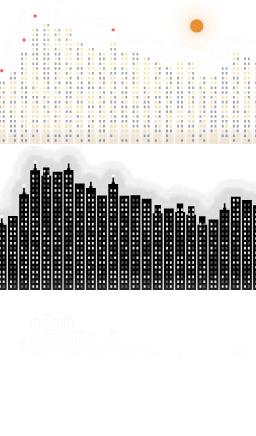
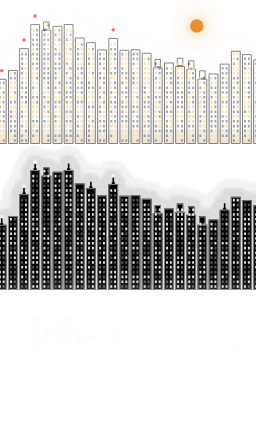
The look picker's stills are drawn again for the removed looks, the Skyline's outlines and the five analysis looks
One run over the combined tree: seven looks gone (4c61c2670), the Skyline's
tower outlines (4665664f0), and the five-look pass (f71aba05d: note and
band names on white, the Analyzer's dashed hold, Before & after's lift and
cut, the Spectrogram's loudness by lightness up to the top), on top of the
switcher's stills, the Smart correction changes and the new patterns that
reached main first. The stills that moved are exactly those looks' own
(Analyzer dark, Before & after, Energy, Notes, Skyline, Spectrogram), plus
Slope's two many-colour stills, which differ on every run (open, being
fixed in its own conversation).

Changed region(s): [[0.0, 0.3876, 1.0, 0.6858], [0.0, 0.0298, 1.0, 0.328]]

diff --git a/src/renderer/graph/lookStills/shippedStillFiles.ts b/src/renderer/graph/lookStills/shippedStillFiles.ts
@@ -175,8 +175,8 @@ const SHIPPED_STILL_FILES: Readonly<Record<string, IShippedStillFile>> = {
     url: analyzerAutoDarkMany,
     roles: [
       'stop-2',
-      'stop-1',
       'stop-3',
+      'stop-1',
       'stop-4',
       'stop-6',
       'stop-5',
@@ -327,32 +327,22 @@ const SHIPPED_STILL_FILES: Readonly<Record<string, IShippedStillFile>> = {
       'stop-6',
       'stop-5',
       'stop-0',
-      'mate-1',
-      'mate-2',
-      'mate-3',
-      'mate-4',
     ],
   },
-  'compare auto dark one': { url: compareAutoDarkOne, roles: ['stop', 'mate'] },
+  'compare auto dark one': { url: compareAutoDarkOne, roles: ['stop'] },
   'compare auto light many': {
     url: compareAutoLightMany,
     roles: [
       'stop-2',
       'stop-3',
       'stop-4',
-      'stop-1',
       'stop-6',
+      'stop-1',
       'stop-5',
       'stop-0',
-      'mate-1',
-      'mate-2',
-      'mate-3',
     ],
   },
-  'compare auto light one': {
-    url: compareAutoLightOne,
-    roles: ['stop', 'mate'],
-  },
+  'compare auto light one': { url: compareAutoLightOne, roles: ['stop'] },
   'echo auto dark many': {
     url: echoAutoDarkMany,
     roles: [
@@ -391,9 +381,13 @@ const SHIPPED_STILL_FILES: Readonly<Record<string, IShippedStillFile>> = {
       'stop-5',
       'stop-6',
       'ink',
+      'floor',
     ],
   },
-  'energy auto dark one': { url: energyAutoDarkOne, roles: ['stop', 'ink'] },
+  'energy auto dark one': {
+    url: energyAutoDarkOne,
+    roles: ['stop', 'ink', 'floor'],
+  },
   'energy auto light many': {
     url: energyAutoLightMany,
     roles: [
@@ -402,12 +396,16 @@ const SHIPPED_STILL_FILES: Readonly<Record<string, IShippedStillFile>> = {
       'stop-3',
       'stop-4',
       'stop-0',
-      'stop-5',
       'stop-6',
+      'stop-5',
       'ink',
+      'floor',
     ],
   },
-  'energy auto light one': { url: energyAutoLightOne, roles: ['stop', 'ink'] },
+  'energy auto light one': {
+    url: energyAutoLightOne,
+    roles: ['stop', 'floor', 'ink', 'level-0'],
+  },
   'fallblocks auto dark many': {
     url: fallblocksAutoDarkMany,
     roles: [
@@ -724,11 +722,12 @@ const SHIPPED_STILL_FILES: Readonly<Record<string, IShippedStillFile>> = {
       'stop-6',
       'ink',
       'edge',
+      'floor',
     ],
   },
   'notes auto dark one': {
     url: notesAutoDarkOne,
-    roles: ['stop', 'ink', 'edge'],
+    roles: ['stop', 'ink', 'edge', 'floor'],
   },
   'notes auto light many': {
     url: notesAutoLightMany,
@@ -741,12 +740,13 @@ const SHIPPED_STILL_FILES: Readonly<Record<string, IShippedStillFile>> = {
       'stop-5',
       'stop-6',
       'ink',
+      'floor',
       'edge',
     ],
   },
   'notes auto light one': {
     url: notesAutoLightOne,
-    roles: ['stop', 'ink', 'edge'],
+    roles: ['stop', 'ink', 'floor', 'edge'],
   },
   'phase auto dark many': {
     url: phaseAutoDarkMany,
@@ -850,10 +850,6 @@ const SHIPPED_STILL_FILES: Readonly<Record<string, IShippedStillFile>> = {
       'stop-6',
       'stop-0',
       'stop-5',
-      'text-faint',
-      'mate-1',
-      'mate-4',
-      'accent',
     ],
   },
   'slope auto dark one': { url: slopeAutoDarkOne, roles: ['stop'] },
@@ -868,7 +864,6 @@ const SHIPPED_STILL_FILES: Readonly<Record<string, IShippedStillFile>> = {
       'stop-0',
       'stop-5',
       'ink',
-      'mate-6',
     ],
   },
   'slope auto light one': { url: slopeAutoLightOne, roles: ['stop', 'ink'] },
@@ -903,15 +898,7 @@ const SHIPPED_STILL_FILES: Readonly<Record<string, IShippedStillFile>> = {
   'sparkbars auto light one': { url: sparkbarsAutoLightOne, roles: ['stop'] },
   'spectrogram auto dark many': {
     url: spectrogramAutoDarkMany,
-    roles: [
-      'stop-3',
-      'stop-4',
-      'stop-2',
-      'stop-5',
-      'stop-6',
-      'stop-1',
-      'stop-0',
-    ],
+    roles: ['loud-2', 'loud-3', 'loud-1', 'loud-4', 'loud-0'],
   },
   'spectrogram auto dark one': {
     url: spectrogramAutoDarkOne,
@@ -919,15 +906,7 @@ const SHIPPED_STILL_FILES: Readonly<Record<string, IShippedStillFile>> = {
   },
   'spectrogram auto light many': {
     url: spectrogramAutoLightMany,
-    roles: [
-      'stop-4',
-      'stop-3',
-      'stop-2',
-      'stop-5',
-      'stop-6',
-      'stop-1',
-      'stop-0',
-    ],
+    roles: ['loud-2', 'loud-3', 'loud-1', 'loud-4', 'loud-0'],
   },
   'spectrogram auto light one': {
     url: spectrogramAutoLightOne,
